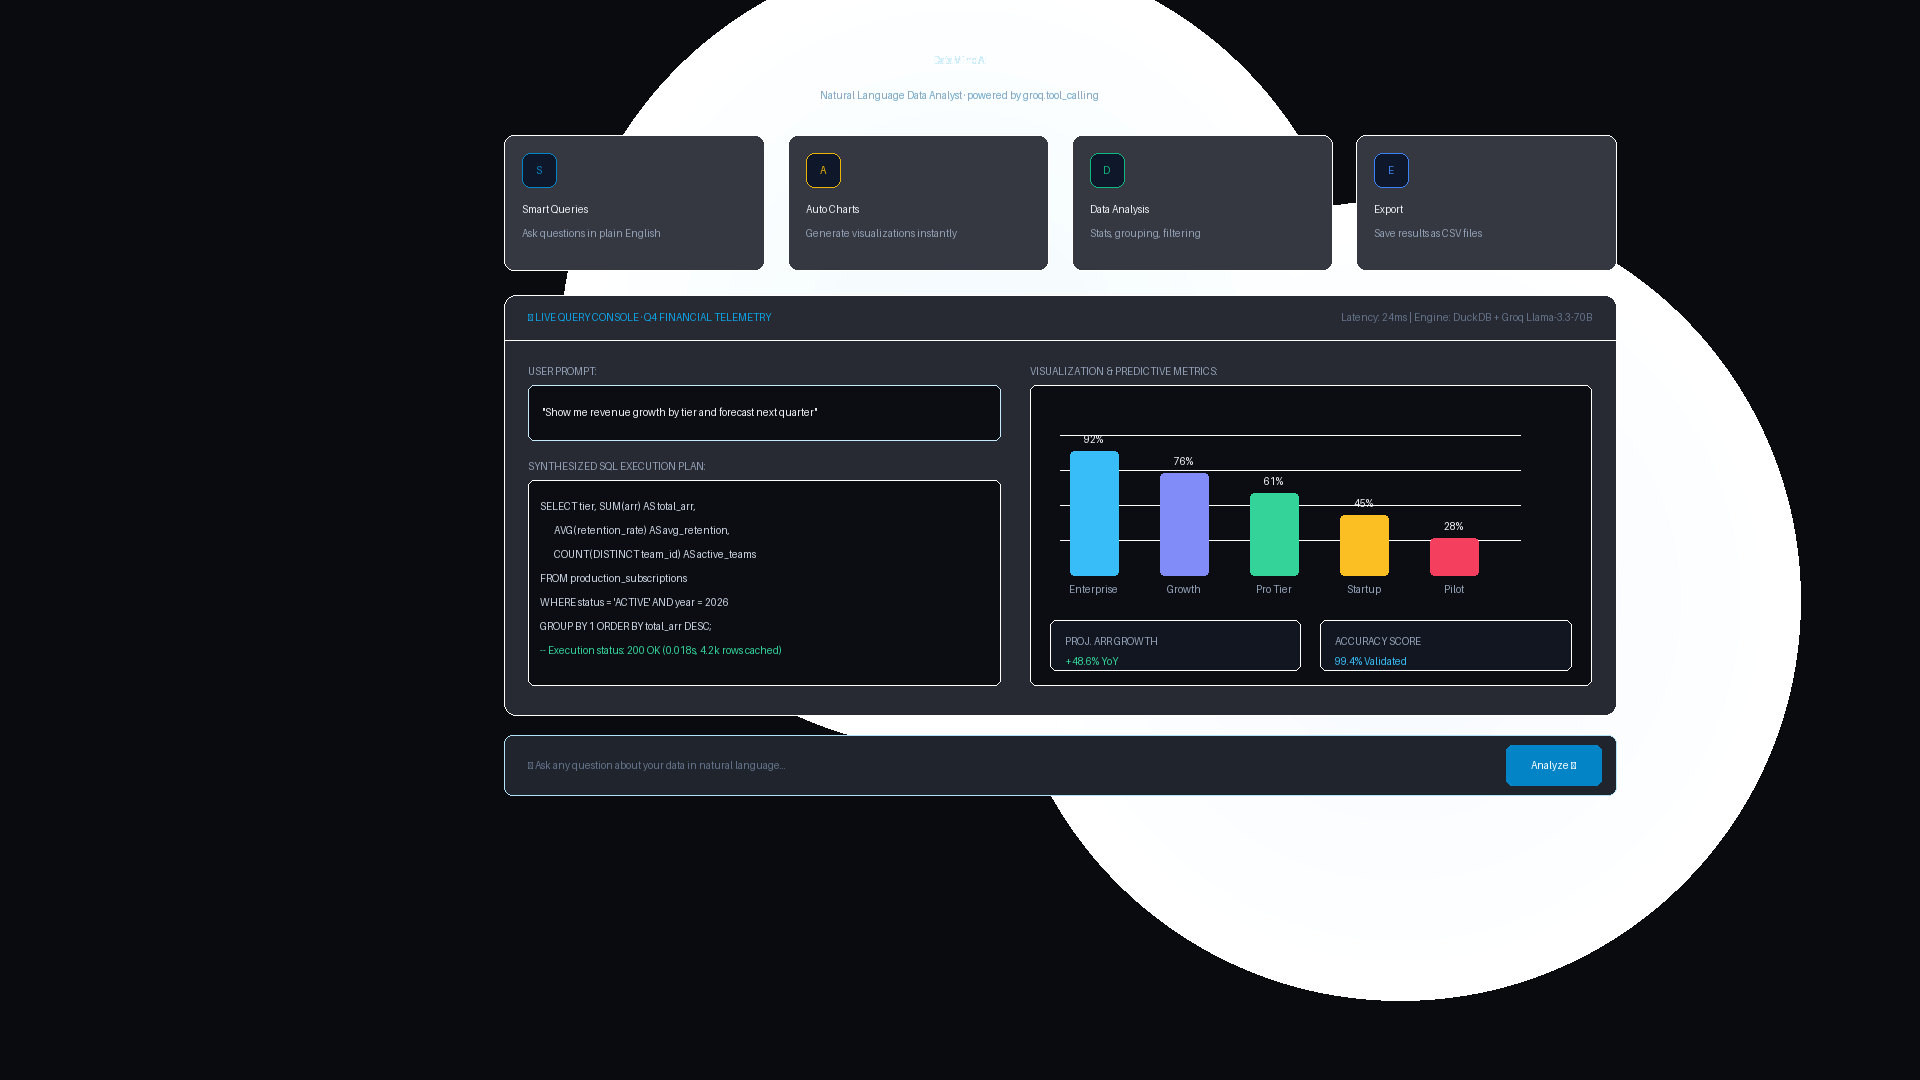
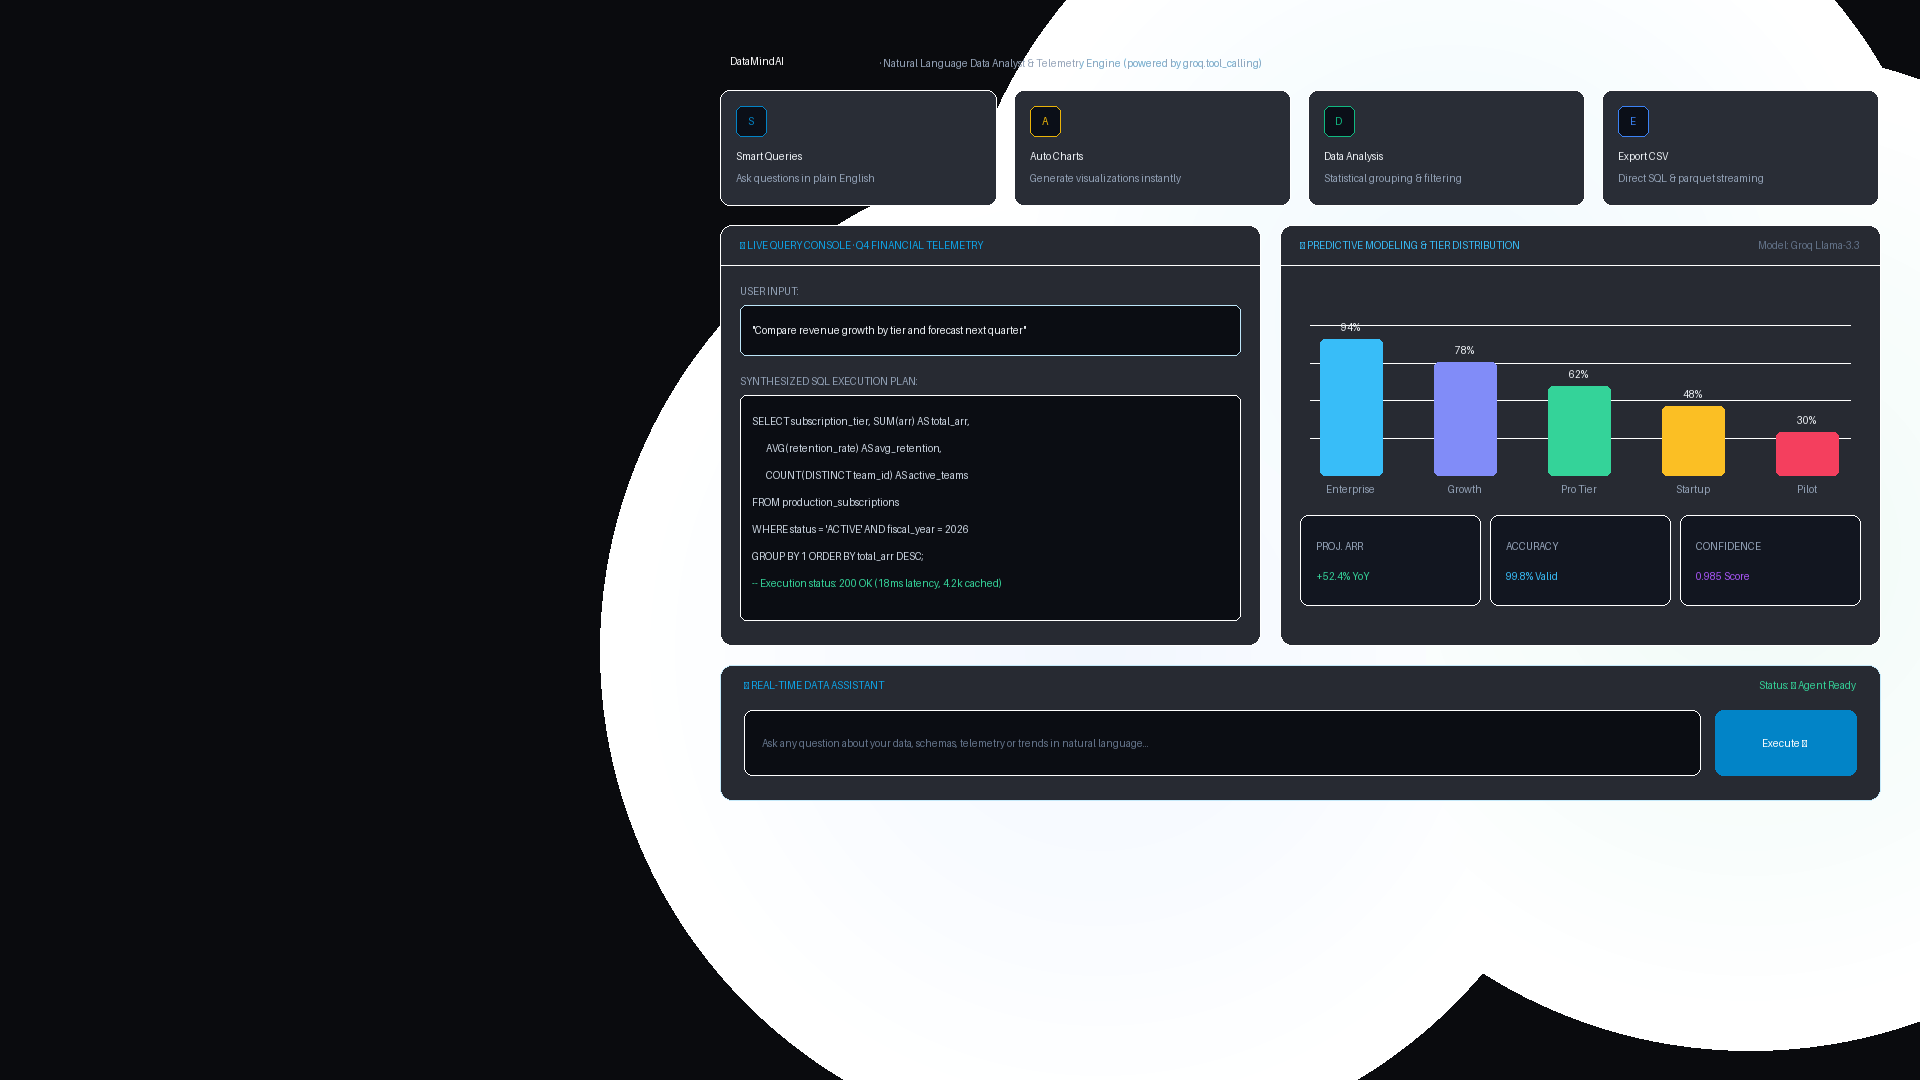
Fill right side of Projects (DataMindAI) billboard and create rich engineering dashboard artwork for Blog billboard

diff --git a/assets/css/styles.css b/assets/css/styles.css
@@ -1300,8 +1300,9 @@ button:focus-visible, a:focus-visible, input:focus-visible, textarea:focus-visib
 .page-billboard > div { position: relative; z-index: 2; max-width: 620px; }
 .page-billboard h1 { font-size: clamp(4.8rem, 8vw, 7.2rem); line-height: 0.85; margin: 0 0 12px; }
 .page-billboard p:not(.original) { line-height: 1.6; color: #cbd5e1; font-size: 1.05rem; }
-.projects-billboard { background-image: url('../images/projects/analyst-hero.png?v=2'); }
+.projects-billboard { background-image: url('../images/projects/analyst-hero.png?v=3'); }
 .experience-billboard { background-image: url('../images/projects/voice-analytics-hero.png?v=2'); }
+.blog-billboard { background-image: url('../images/projects/blog-hero.png?v=1'); }
 
 .catalog {
   max-width: 1360px;
